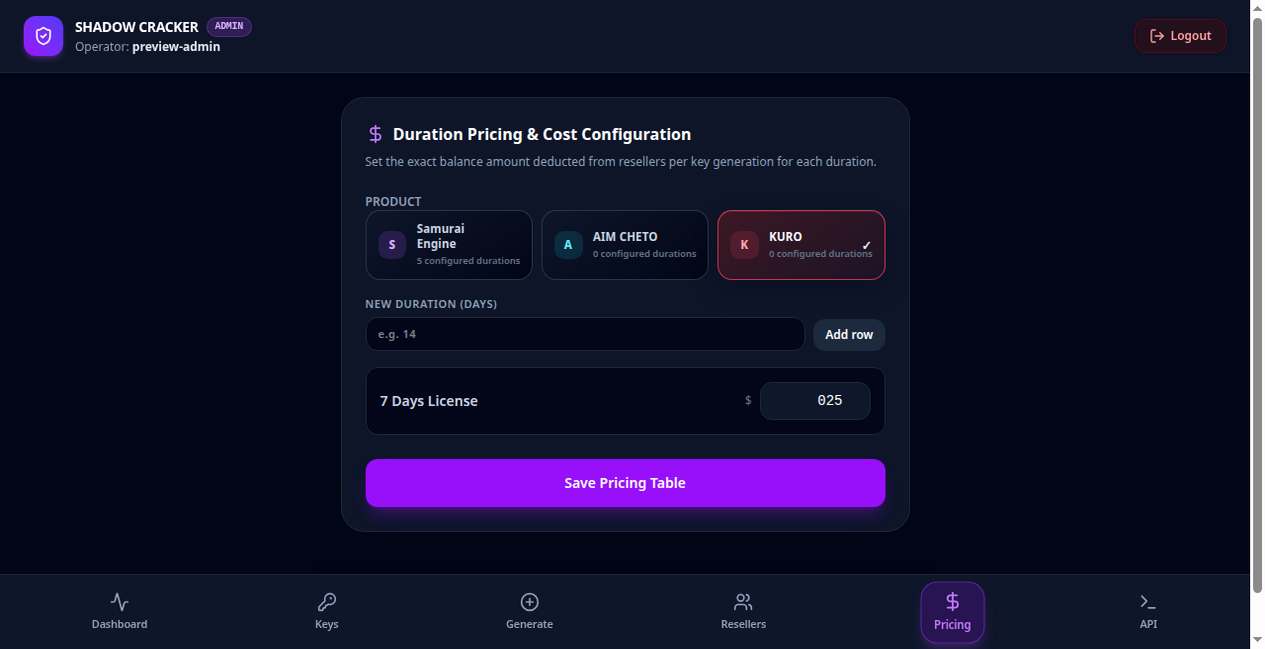
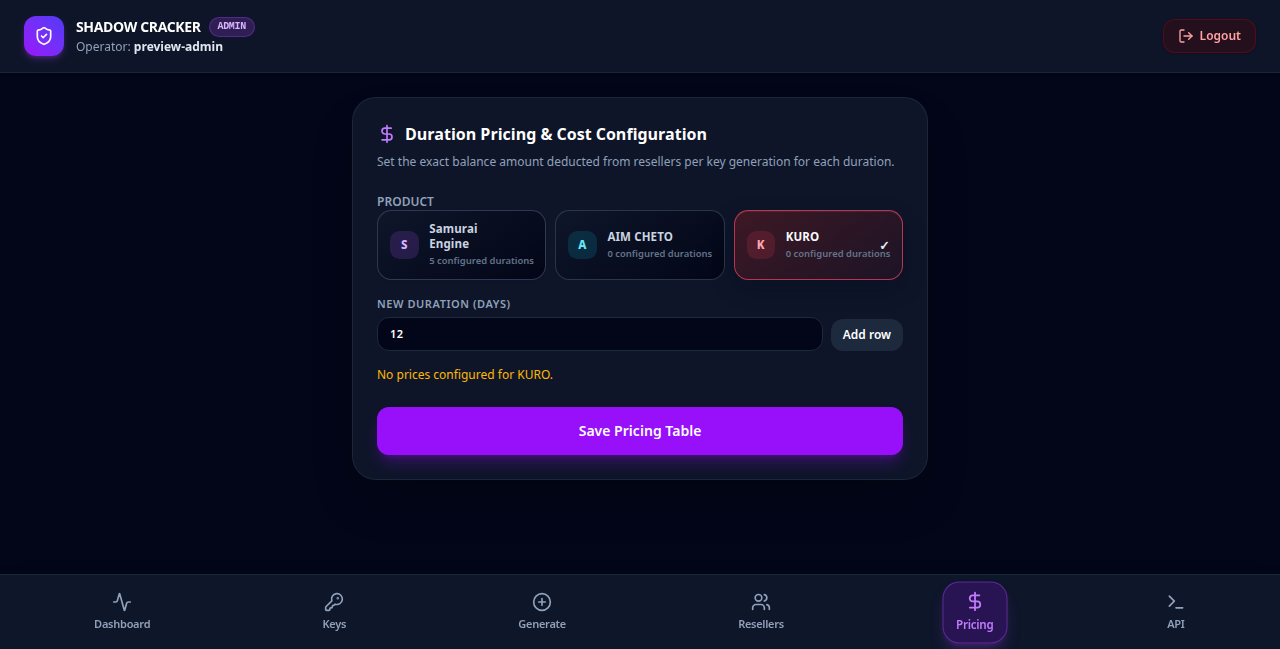
docs: mark KURO release review-only and preserve validation evidence

diff --git a/docs/MOD-API.md b/docs/MOD-API.md
@@ -1,5 +1,7 @@
 # Mod APIs
 
+**Review only:** KURO, diagnostics, and the premium selectors are implemented on PR #3, not deployed or merged. The base URL below is the existing service; the KURO examples require owner-approved deployment first. Existing AIM CHETO and Samurai Engine remain on the current live release.
+
 Base URL: `https://auth-api-zzhn-bzf6.onrender.com`
 
 All three products use the existing license routes. Select the product explicitly in activation requests to prevent using another mod's key.
